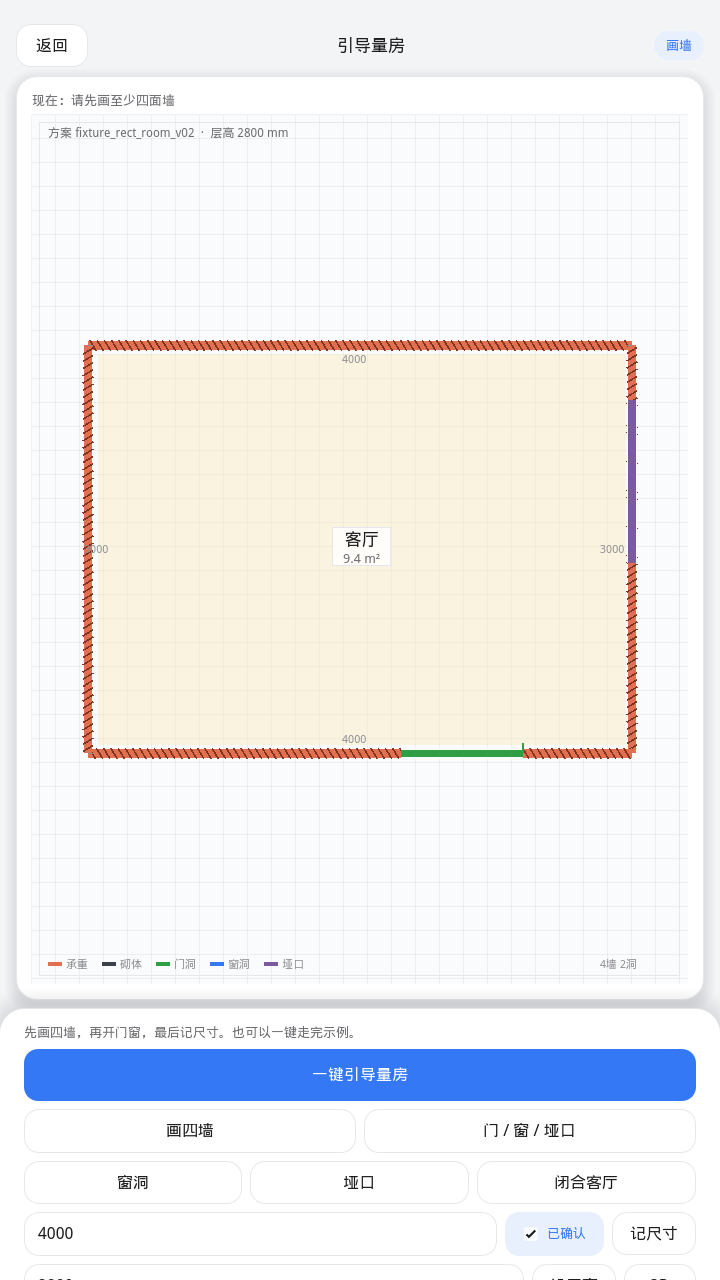
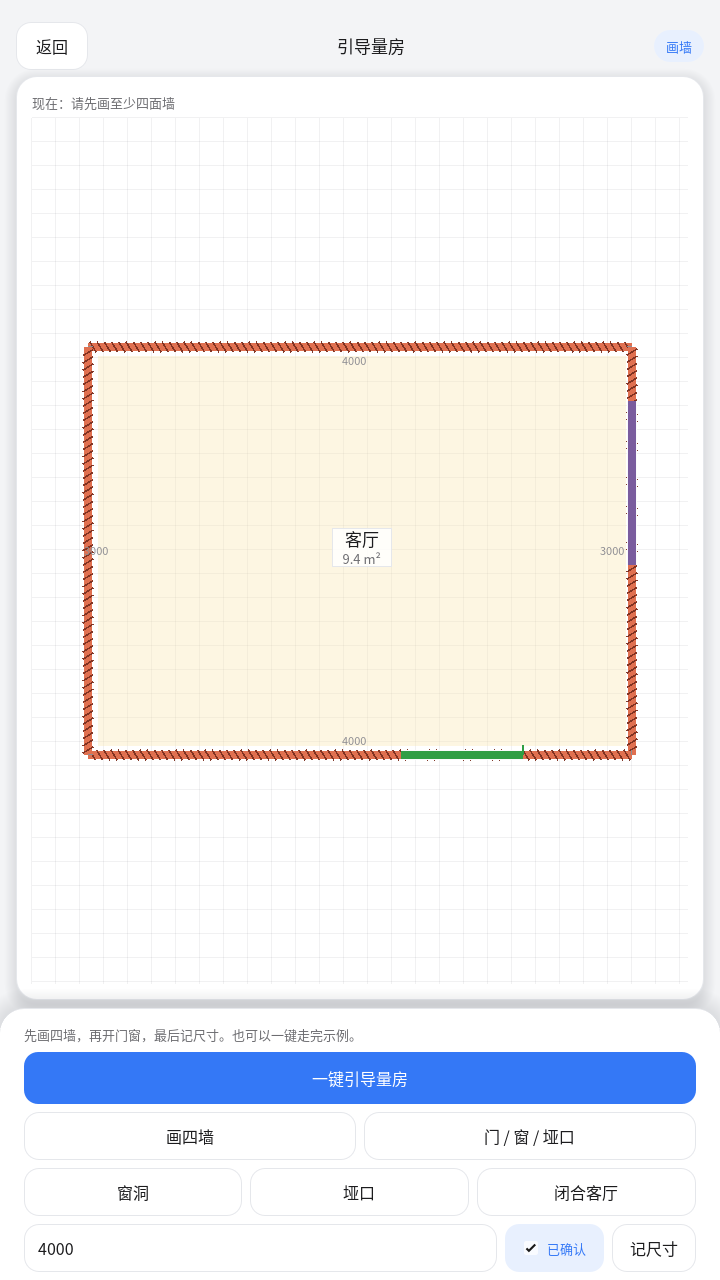
docs: page-clone screenshots for S2–S8 islands
Refresh Godot capture stills: scale+loupe, 2D capsule and 3-icon
pill, library drag dims, 3D detached rail + minimap FOV, ruler
sheet, pink in-world dimensions, Elevation Index stub.

diff --git a/docs/screenshots/README.md b/docs/screenshots/README.md
@@ -1,20 +1,24 @@
 # Godot 宿主界面预览
 
-当代手机风量房 UI：浅灰底 + 单一蓝色强调，首页大卡片进入 **拍户型图** /
-**从相册导入** / **引导量房**。Android 走系统相机与相册；像素只作预览，
-墙段与尺寸来自 SceneIR 命令。
+JoyPlan 逐屏克隆：悬浮 island chrome（无通栏 / 无主 FAB）。画布由
+`godot/app/capture_ui.gd` 在 Godot 4.3 `gl_compatibility` 下渲染。
 
 | 文件 | 画面 |
 |------|------|
 | [01-home.png](./01-home.png) | 首页：拍户型图 / 从相册导入 / 引导量房 |
-| [02-guide.png](./02-guide.png) | 引导量房：底部操作条 |
-| [03-photo-pick.png](./03-photo-pick.png) | 拍户型图 / 从相册导入 / 示例图 |
-| [09-photo-preview.png](./09-photo-preview.png) | 选图后预览，开始识墙 |
-| [04-photo-review-kinds.png](./04-photo-review-kinds.png) | 确认承重：L/W/H chips、收藏/门/窗 库、房间 m²、FAB 3D |
-| [05-demolish.png](./05-demolish.png) | 拆改：砌体直接拆；承重二次确认 copy |
-| [06-shear-confirm.png](./06-shear-confirm.png) | 确认拆除承重墙（再点一次确认 / 先不拆） |
-| [07-edit-3d-day.png](./07-edit-3d-day.png) | 3D 编辑 · 白天 + 底栏库 + 标尺 + FAB 2D |
-| [08-edit-3d-warm.png](./08-edit-3d-warm.png) | 3D 编辑 · 暖光预设 |
+| [02-guide.png](./02-guide.png) | 引导量房 |
+| [03-photo-pick.png](./03-photo-pick.png) | S1 选图：拍户型图 / 从相册导入 / 示例图 |
+| [09-photo-preview.png](./09-photo-preview.png) | 选图后预览 |
+| [10-calibrate.png](./10-calibrate.png) | **S2** 比例校准：顶岛、loupe、深蓝调整户型 sheet |
+| [04-photo-review-kinds.png](./04-photo-review-kinds.png) | **S3** 2D：2 段 2D\|3D 胶囊、L/∠、底栏三图标、上下文 pill |
+| [11-library-drag.png](./11-library-drag.png) | **S4** 底栏库 + 蓝教练 + 拖放尺寸线 |
+| [05-demolish.png](./05-demolish.png) | 拆改：整段拆除 / 打断 |
+| [06-shear-confirm.png](./06-shear-confirm.png) | 确认拆除承重墙 |
+| [07-edit-3d-day.png](./07-edit-3d-day.png) | **S5** 3D：分离右栏圆钮、小地图 FOV、绿回 2D |
+| [12-ruler.png](./12-ruler.png) | **S6** 标尺显示 sheet |
+| [13-dims.png](./13-dims.png) | **S7** 空间粉红尺寸 |
+| [08-edit-3d-warm.png](./08-edit-3d-warm.png) | 3D 暖光预设 |
+| [14-elevation.png](./14-elevation.png) | **S8** Elevation Index stub |
 
 ## 01 首页
 
@@ -26,21 +30,33 @@
 
 ## 03 拍户型图 · 导入
 
-系统相机 / 相册；桌面为文件对话框。不再使用“即将支持”占位。
+系统相机 / 相册；桌面为文件对话框。
 
 ![拍户型图导入](./03-photo-pick.png)
 
 ## 09 照片预览
 
-拍照或选图返回后先预览，再写入 `user://imports/` 并跑 FakeVision。
-
 ![照片预览](./09-photo-preview.png)
 
-## 04 确认承重
+## 10 S2 比例校准
 
-点墙切换种类。顶栏 L/W/H 可点进数字底栏。底栏 收藏/门/窗 长按拖放到墙。
+顶栏岛屿（返回 / 比例设置 / 1F）、蓝比例尺 + 圆把手、拖时圆形 loupe、
+深色「调整户型」sheet（退出 / 确定，默认 900 mm）。
 
-![确认承重](./04-photo-review-kinds.png)
+![比例校准](./10-calibrate.png)
+
+## 04 S3 2D 底图编辑
+
+中间 2 段 2D|3D 胶囊；左上 L/∠；选中旁上下文 pill；底栏白胶囊三图标
+（绿 3D / 指南针 / 保存）；底 1/3 素材库。
+
+![2D 底图](./04-photo-review-kinds.png)
+
+## 11 S4 底栏库拖放
+
+蓝胶囊「长按控件拖到平面图」；拖到墙出现红/黑动态尺寸线并吸附。
+
+![库拖放](./11-library-drag.png)
 
 ## 05 拆改
 
@@ -50,13 +66,31 @@
 
 ![承重墙拆除确认](./06-shear-confirm.png)
 
-## 07 3D 编辑 · 白天
+## 07 S5 3D 漫游
 
-![3D 编辑白天](./07-edit-3d-day.png)
+分离的右栏白圆、左上小地图 + FOV 锥、左下绿回 2D、右下撤销/重做。
 
-## 08 3D 编辑 · 暖光
+![3D 白天](./07-edit-3d-day.png)
 
-![3D 编辑暖光](./08-edit-3d-warm.png)
+## 12 S6 标尺显示
+
+白 sheet：取消灰 / 确定紫；柱 / 管线 / 全选 / 尺寸 / 墙厚信息。
+
+![标尺显示](./12-ruler.png)
+
+## 13 S7 空间尺寸
+
+粉/红尺寸线与数字直接画在 3D 空间。
+
+![空间尺寸](./13-dims.png)
+
+## 08 3D 暖光
+
+![3D 暖光](./08-edit-3d-warm.png)
+
+## 14 S8 Elevation Index（P1 stub）
+
+![Elevation Index](./14-elevation.png)
 
 这些 PNG 由 `godot/app/capture_ui.gd` 在 Godot 4.3 `gl_compatibility` 下渲染。APK 不入库（`*.apk` gitignore）。
 相机 / 相册插件说明：[godot/android-plugin/README.md](../../godot/android-plugin/README.md)。
